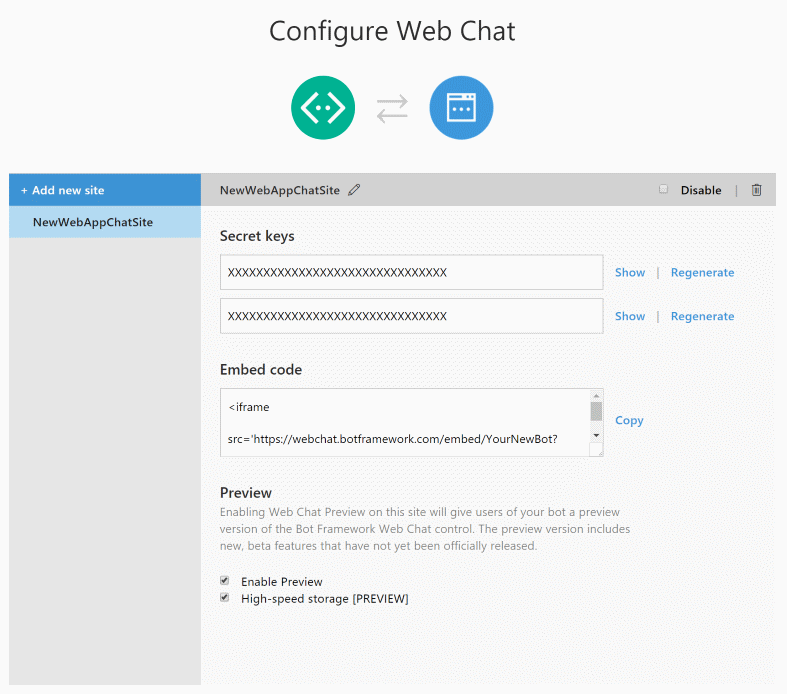
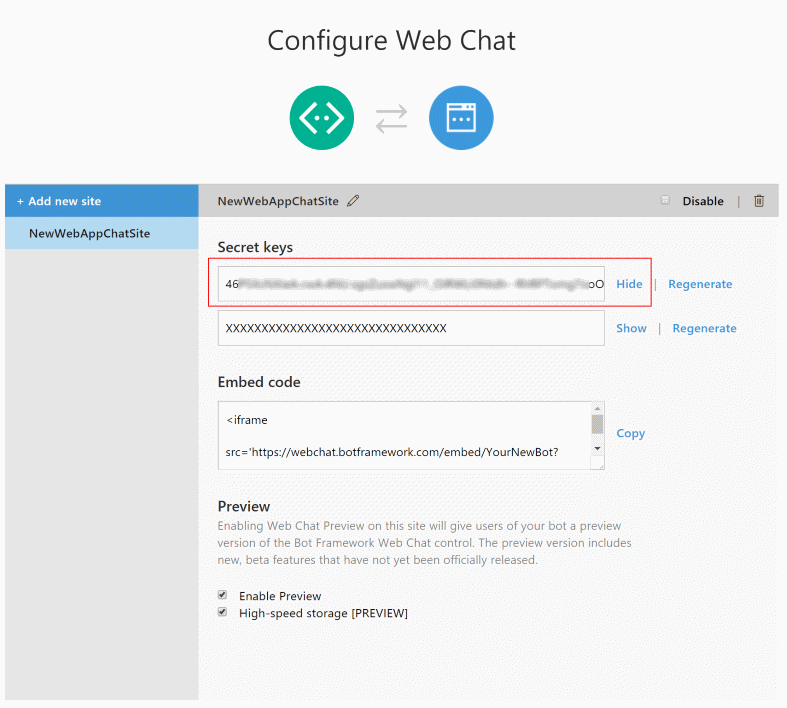
Revised LUIS embed code documentation

diff --git a/SetupGuide.md b/SetupGuide.md
@@ -94,15 +94,17 @@ After choosing whether you want verbose logging, to use Bing search, and the tim
 
 We're nearly done with setup - you need to obtain a LUIS embed code, which the generator will insert into an HTML file hosted in your Azure Web App to act as a web-based chat client.  
 
-Return to your bot at https://dev.botframework.com/ and select the **CHANNELS** menu option. By default, two channels have been created for you, Skype and Web Chat. Select the **Edit** link next to **Web Chat** and select **Add a new site**. Enter a name for your new site. 
+Return to your bot at https://dev.botframework.com/ and select the **CHANNELS** menu option. By default, two channels have been created for you, Skype and Web Chat. 
+
+Select the **Edit** link next to **Web Chat** and select **Add a new site**. Enter a name for your new site. 
 
 ![Create Web Chat](assets/WebChat-1.png)
 
-On the following screen, click **Show** to reveal the first hidden key, and use it to replace the text **YOUR_SECRET_HERE** in the **Embed Code** textbox. 
+On the following screen, click **Show** to reveal the first hidden key, then copy and paste this value into the bot generator. 
 
 ![Create Web Chat](assets/WebChat-2.png)
 
-Copy the contents of this textbox, and paste it into the generator. 
+The generator will use this key to create a complete URL in the index.html file created for you (so, you don't need to paste the whole IFRAME code that the dev portal offers you).
 
 Finally, Botscaffold will ask you to confirm the directory where you'd like to save your files.  The generator will now build the framework of the Bot for you. 
 
